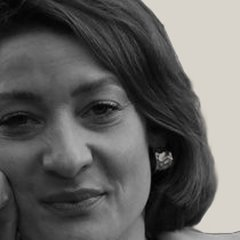
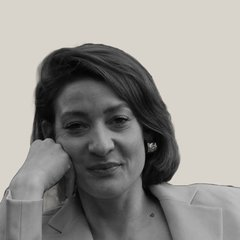
Mohamed Belhamar en vedette dans l'agenda, stage de décembre, texte du bloc scène remonté, portrait de Roxane recadré

diff --git a/style.css b/style.css
@@ -92,8 +92,8 @@ h2 { font-size: clamp(2.6rem, 6.5vw, 5.2rem); margin-bottom: 24px; }
 /* Spectacle de fin d'année : photo pleine largeur, texte posé dessus */
 .spectacle { position: relative; color: var(--blanc); background: var(--noir); }
 .spectacle img { width: 100%; height: min(78vh, 720px); object-fit: cover; object-position: center 45%; }
-.spectacle::after { content: ""; position: absolute; inset: 0; background: linear-gradient(90deg, rgba(11,11,11,0.9) 0%, rgba(11,11,11,0.35) 55%, rgba(11,11,11,0) 100%); }
-.spectacle-texte { position: absolute; z-index: 1; left: max(20px, calc((100% - 1180px) / 2)); right: 20px; bottom: 64px; max-width: 560px; }
+.spectacle::after { content: ""; position: absolute; inset: 0; background: linear-gradient(180deg, rgba(11,11,11,0.85) 0%, rgba(11,11,11,0.35) 45%, rgba(11,11,11,0) 70%); }
+.spectacle-texte { position: absolute; z-index: 1; left: max(20px, calc((100% - 1180px) / 2)); right: 20px; top: 56px; max-width: 560px; }
 .spectacle-texte h2 { font-size: clamp(2.4rem, 5vw, 4.2rem); }
 .spectacle-texte p:not(.surtitre) { font-size: 1.1rem; }
 
@@ -110,6 +110,14 @@ h2 { font-size: clamp(2.6rem, 6.5vw, 5.2rem); margin-bottom: 24px; }
 /* Partenaires : logos */
 .logos { grid-area: logos; display: flex; flex-direction: column; align-items: flex-start; gap: 44px; justify-self: center; }
 .logos img { height: 96px; width: auto; }
+
+/* Agenda : Mohamed Belhamar en vedette */
+.vedette { display: grid; grid-template-columns: 0.8fr 1.2fr; gap: 56px; align-items: center; margin-bottom: 64px; }
+.vedette img { width: 100%; aspect-ratio: 1 / 1; object-fit: cover; object-position: 60% 0%; filter: grayscale(1); }
+.vedette h2 { margin-bottom: 8px; }
+.vedette .role { margin-bottom: 20px; }
+.vedette p:not(.role) { max-width: 560px; font-size: 1.08rem; margin-bottom: 14px; }
+.vedette em { font-style: italic; }
 
 /* Agenda */
 .evenement { display: grid; grid-template-columns: 220px 1fr auto; gap: 40px; align-items: center; padding: 40px 0; border-top: 1px solid rgba(255,255,255,0.25); }
@@ -172,8 +180,10 @@ h2 { font-size: clamp(2.6rem, 6.5vw, 5.2rem); margin-bottom: 24px; }
   .evenement { grid-template-columns: 1fr; gap: 20px; }
   .evenement .btn { justify-self: start; }
   .bloc, .lettre, .grandir { padding: 72px 0; }
-  .spectacle::after { background: linear-gradient(0deg, rgba(11,11,11,0.92) 0%, rgba(11,11,11,0.3) 70%, rgba(11,11,11,0.1) 100%); }
-  .spectacle-texte { bottom: 36px; }
+  .spectacle img { object-position: center 70%; }
+  .spectacle-texte { top: 32px; }
+  .vedette { grid-template-columns: 1fr; gap: 28px; }
+  .vedette img { max-width: 340px; }
 }
 @media (max-width: 560px) {
   body { font-size: 16px; }

diff --git a/index.html b/index.html
@@ -91,7 +91,7 @@
       <ul class="plus">
         <li><strong>Des textes</strong>Une bibliothèque de scènes de théâtre et de cinéma.</li>
         <li><strong>De l'écriture</strong>Des scènes écrites sur mesure pour les bandes démo.</li>
-        <li><strong>Un photographe</strong>Des séances photo pour des portraits destinés aux castings.</li>
+        <li><strong>Book photo</strong>Des séances photo pour des portraits destinés aux castings.</li>
       </ul>
     </div>
   </section>
@@ -99,7 +99,15 @@
   <section class="bloc agenda" id="agenda">
     <div class="conteneur">
       <p class="surtitre">Agenda</p>
-      <h2>Chaque mois, trois jours intensifs avec un professionnel du métier</h2>
+      <div class="vedette">
+        <img src="images/belhamar.jpg" alt="Mohamed Belhamar, directeur de casting" loading="lazy">
+        <div>
+          <h2>Mohamed Belhamar, une collaboration atypik</h2>
+          <p class="role">Directeur de casting</p>
+          <p>Il a travaillé sur <em>Athena</em> de Romain Gavras, sur <em>De rouille et d'os</em>, <em>Dheepan</em> et <em>Un prophète</em> de Jacques Audiard, sur la série <em>Validé</em> et sur de nombreux autres films.</p>
+          <p>Chaque mois, il anime à Genève un stage intensif de trois jours avec Atypik Théâtre : travail de scènes de cinéma, direction d'acteur face caméra et regard du casting.</p>
+        </div>
+      </div>
       <div class="agenda-liste" id="agenda-liste"></div>
     </div>
   </section>

diff --git a/contenu.js b/contenu.js
@@ -16,7 +16,7 @@ window.ATYPIK = {
       jour: "Lundi",
       nom: "Technique",
       description:
-        "Le corps, l'écoute, l'improvisation. Travail de scène.",
+        "Le corps, l'écoute, improvisation. Travail de scène.",
       statut: "complet",
     },
     {
@@ -63,6 +63,19 @@ window.ATYPIK = {
     {
       debut: "2026-11-13",
       fin: "2026-11-15",
+      type: "Stage",
+      titre: "Caméra & casting avec Mohamed Belhamar",
+      sousTitre: "Directeur de casting",
+      description:
+        "Trois jours de travail face caméra : scènes de cinéma, mise en situation de casting et retours personnalisés.",
+      lieu: "Genève, secteur Plainpalais",
+      horaire: "10h à 17h",
+      prix: "300 CHF (250 CHF pour les élèves Atypik)",
+      placesLimitees: true,
+    },
+    {
+      debut: "2026-12-05",
+      fin: "2026-12-07",
       type: "Stage",
       titre: "Caméra & casting avec Mohamed Belhamar",
       sousTitre: "Directeur de casting",
